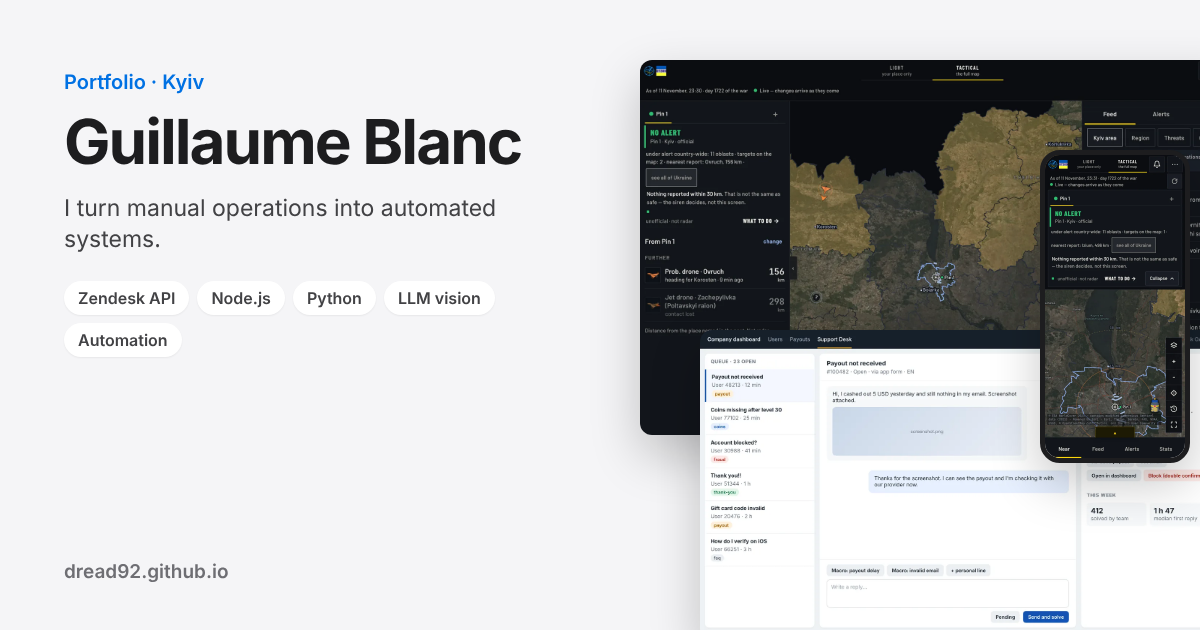
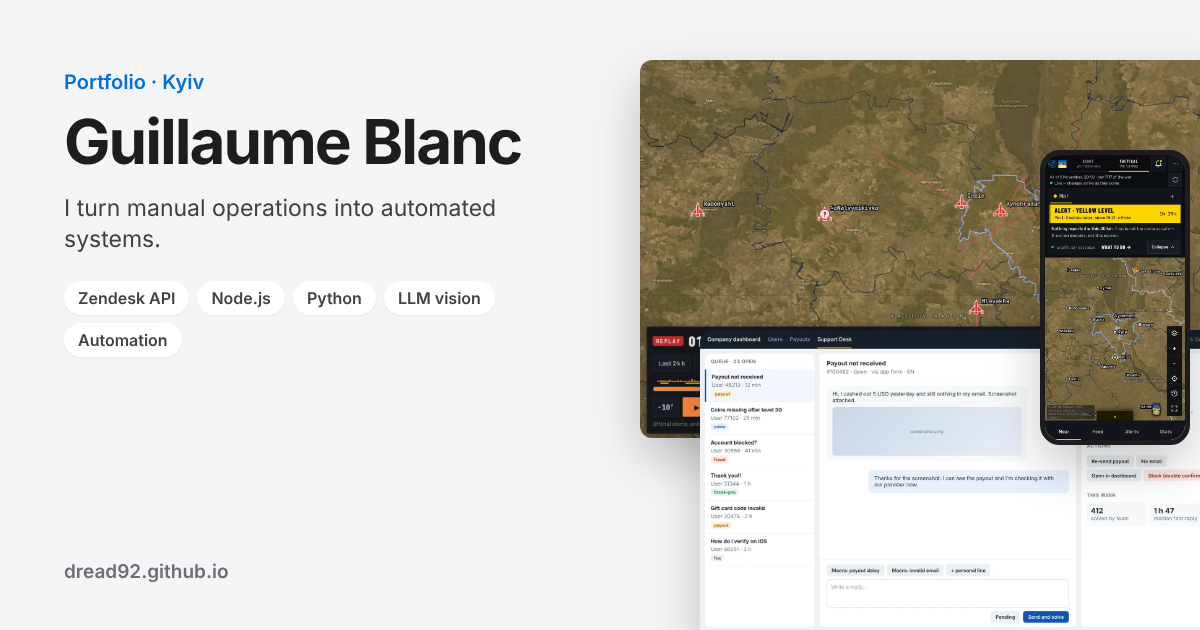
Heimdall: replay captures with missiles on the map

Changed region(s): [[0.5242, 0.0905, 1.0, 0.754]]

diff --git a/index.html b/index.html
@@ -575,9 +575,9 @@
         <a class="open-app" href="https://heimdall.com.ua/m"><span class="dot"></span><span class="txt"><b>Open the app in your browser</b><small>heimdall.com.ua · no install, any phone</small></span><svg class="arr" viewBox="0 0 24 24" fill="none" stroke="currentColor" stroke-width="2" stroke-linecap="round" stroke-linejoin="round"><path d="M7 17L17 7M9 7h8v8"/></svg></a>
         <a class="open-app tg" href="https://t.me/Heimdall07300_bot"><svg class="tgi" viewBox="0 0 24 24" fill="currentColor" aria-hidden="true"><path d="M21.9 4.3 18.8 19c-.2 1-.8 1.3-1.7.8l-4.7-3.5-2.3 2.2c-.3.3-.5.5-1 .5l.3-4.8 8.7-7.9c.4-.3-.1-.5-.6-.2L6.7 12.9 2.1 11.5c-1-.3-1-1 .2-1.5L20.6 3c.8-.3 1.6.2 1.3 1.3z"/></svg><span class="txt"><b>Telegram bot @Heimdall07300_bot</b><small>Complements the app, inside Telegram</small></span><svg class="arr" viewBox="0 0 24 24" fill="none" stroke="currentColor" stroke-width="2" stroke-linecap="round" stroke-linejoin="round"><path d="M7 17L17 7M9 7h8v8"/></svg></a>
       </div></div>
-    <div class="hm-wide"><figure class="shot dark"><div class="frame"><i></i><i></i><i></i></div><img src="heimdall.webp" alt="Live on 11 November 2026, 23:30. A reported drone north-west of Kyiv, pointed along its heading, with the areas under alert shaded on the map. Left: every target with its distance from your pin. Right: the public posts they come from." width="1600" height="1000" loading="lazy"><figcaption>Live on 11 November 2026, 23:30. A reported drone north-west of Kyiv, pointed along its heading, with the areas under alert shaded on the map. Left: every target with its distance from your pin. Right: the public posts they come from.</figcaption></figure></div>
+    <div class="hm-wide"><figure class="shot dark"><div class="frame"><i></i><i></i><i></i></div><img src="heimdall.webp" alt="Replay of the night of 6 to 7 November 2026, at 01:20: missiles reported around Kyiv, each drawn where the public posts placed it, with its track. Any of the last seven nights can be played back minute by minute." width="1600" height="1009" loading="lazy"><figcaption>Replay of the night of 6 to 7 November 2026, at 01:20: missiles reported around Kyiv, each drawn where the public posts placed it, with its track. Any of the last seven nights can be played back minute by minute.</figcaption></figure></div>
     <h3 class="hm-trio-h">On your phone, at 3 a.m.</h3>
-    <div class="hm-trio"><figure class="phone hm-f"><img src="hm-calm.webp" alt="A quiet night. One glance: nothing is reported within 30 km of your pin. And a reminder that this is not the same as safe. The siren decides, not the screen." width="560" height="1212" loading="lazy"><figcaption><b>A quiet night</b><span>One glance: nothing is reported within 30 km of your pin. And a reminder that this is not the same as safe. The siren decides, not the screen.</span></figcaption></figure><figure class="phone hm-f"><img src="heimdall-mobile.webp" alt="During an alert. Reported drones and missiles appear on the map with their heading, inside distance rings of 15, 30 and 60 km around your pin." width="520" height="1058" loading="lazy"><figcaption><b>During an alert</b><span>Reported drones and missiles appear on the map with their heading, inside distance rings of 15, 30 and 60 km around your pin.</span></figcaption></figure><figure class="phone hm-f"><img src="hm-evidence-p.webp" alt="Tap any mark. Heading, age, position accuracy, the original post, and how each part of the sentence was read. Evidence, not guesses." width="840" height="1709" loading="lazy"><figcaption><b>Tap any mark</b><span>Heading, age, position accuracy, the original post, and how each part of the sentence was read. Evidence, not guesses.</span></figcaption></figure></div>
+    <div class="hm-trio"><figure class="phone hm-f"><img src="heimdall-mobile.webp" alt="During an alert. Reported drones and missiles appear on the map with their heading, inside distance rings of 15, 30 and 60 km around your pin." width="520" height="1058" loading="lazy"><figcaption><b>During an alert</b><span>Reported drones and missiles appear on the map with their heading, inside distance rings of 15, 30 and 60 km around your pin.</span></figcaption></figure><figure class="phone hm-f"><img src="hm-replay.webp" alt="Replay any night. Any of the last seven nights, played back minute by minute. Here: missiles reported around Kyiv at 01:20 on 7 November." width="560" height="1126" loading="lazy"><figcaption><b>Replay any night</b><span>Any of the last seven nights, played back minute by minute. Here: missiles reported around Kyiv at 01:20 on 7 November.</span></figcaption></figure><figure class="phone hm-f"><img src="hm-evidence-p.webp" alt="Tap any mark. Heading, age, position accuracy, the original post, and how each part of the sentence was read. Evidence, not guesses." width="840" height="1709" loading="lazy"><figcaption><b>Tap any mark</b><span>Heading, age, position accuracy, the original post, and how each part of the sentence was read. Evidence, not guesses.</span></figcaption></figure></div>
     <div class="stats"><div class="stat"><b>3,531</b><span>device-days in the last 30 days</span></div><div class="stat"><b>4,809</b><span>app opens in the last 30 days</span></div><div class="stat"><b>96</b><span>devices on a typical day</span></div></div>
     <p class="stats-note">Counted without tracking anyone: the daily device hash is regenerated at midnight, so the same person cannot be recognised tomorrow. Figures from the built-in usage dashboard, 6 November 2026.</p>
     <details class="more-block"><summary><span>Under the hood</span></summary><div class="more-in">
